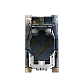
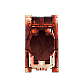
colored sprites, fixed explosions

Changed region(s): [[0.2857, 0.1667, 0.7143, 0.8571]]

diff --git a/src/EvilCraft/Tank.java b/src/EvilCraft/Tank.java
@@ -31,9 +31,15 @@ public class Tank extends ArmyUnit {
     String body = "resources/images/team_red/tank/body.png";
     String gun = "resources/images/team_red/tank/gun.png";
     private int firespeed = 30;
-
+    private final static int imgW = 84;
+    private final static int imgH = 84; //width and height for drawing
+    private final static int colW = 34;
+    private final static int colH = 58; //width and height for collision
+    //Sprite superclass has variables w and h, these correspond to imgW and imgH and can be used as such
+    //getW and H return colW and H, because that's the only one other objects should care about unless they're a canvas
+    
     public Tank(Team team, int x, int y, int w, int h) {
-        super(team, x, y, 84, 84, 300, 0, 2);
+        super(team, x, y, imgW, imgH, 300, 0, 2);
         int k = 0;
         GameEngine ge = GameEngine.getInstance();
         body = this.team==ge.getPlayerTeam()? "resources/images/team_red/tank/body.png": "resources/images/team_yellow/tank/body.png";
@@ -62,18 +68,27 @@ public class Tank extends ArmyUnit {
         if (this.idx_explode == -1) {
         } else {
             if (this.pic != null) {
-                mainview.drawImg(this.pic, this.getX(), this.getY(), this.getW(), this.getH(), 0);
+                mainview.drawImg(this.pic, this.getX(), this.getY(), imgW, imgH, 0); 
             }
         }
-        mainview.drawImg(body, this.getX() - this.getW() / 2, this.getY() - this.getH() / 2, this.getW(), this.getH(), body_degree);
-        mainview.drawImg(gun, this.getX() - this.getW() / 2, this.getY() - this.getH() / 2, this.getW(), this.getH(), gun_degree);
+        mainview.drawImg(body, this.getX() - imgW/ 2, this.getY() - imgH/ 2, imgW, imgH, body_degree);
+        mainview.drawImg(gun, this.getX() - imgW/ 2, this.getY() - imgH / 2, imgW, imgH, gun_degree);
     }
 
+    @Override
+    public int getH(){ //changed for collision detection
+        return colH;
+    }
+    
+    @Override
+    public int getW(){ //changed for collision detection
+        return colW;
+    }
+    
     @Override
     public void drawOnMiniMap(ICanvasDevice minimap) {
         int mw = GameEngine.getInstance().map.getNumRows()*100;
         int vw = minimap.getWidth();
-        String color = this.team.name.indexOf("Human")>=0? "#FF0000": "#0000FF";
         minimap.drawRectangle(x*vw/mw, y*vw/mw, w*vw/mw, h*vw/mw, color);
     }
 
@@ -187,7 +202,7 @@ public class Tank extends ArmyUnit {
         firespeed--;
         if (firespeed == 0){
             firespeed = 30;
-            Shell shell = new Shell(this.team, this.getX() + this.getW() / 2, this.getY() + this.getH() / 2, 10, 10, 100000, pt.x, pt.y);
+            Shell shell = new Shell(this.team, this.getX() + imgW / 2, this.getY() + imgH / 2, 10, 10, 100000, pt.x, pt.y);
             GameEngine ge = GameEngine.getInstance();
             ge.addSprite(shell);
         }

diff --git a/src/EvilCraft/Sprite.java b/src/EvilCraft/Sprite.java
@@ -35,15 +35,26 @@ public abstract class Sprite {
     private int altitude, blocking_score;
     private int lifepoints;
     private String id;
-    protected String pic = null;
+    protected String pic;
     
     //default explosion
     protected static String [] arrExplosion= new String [] {
-        "resources/images/common/explosion/exp1.png",
-         "resources/images/common/explosion/exp2.png",
-          "resources/images/common/explosion/exp3.png",
-           "resources/images/common/explosion/exp4.png",
-            "resources/images/common/explosion/exp5.png",
+        "resources/images/common/explosions/0.png",
+        "resources/images/common/explosions/1.png",
+        "resources/images/common/explosions/2.png",
+        "resources/images/common/explosions/3.png",
+        "resources/images/common/explosions/4.png",
+        "resources/images/common/explosions/5.png",
+        "resources/images/common/explosions/6.png",
+        "resources/images/common/explosions/7.png",
+        "resources/images/common/explosions/8.png",
+        "resources/images/common/explosions/9.png",
+        "resources/images/common/explosions/10.png",
+        "resources/images/common/explosions/11.png",
+        "resources/images/common/explosions/12.png",
+        "resources/images/common/explosions/13.png",
+        "resources/images/common/explosions/14.png",
+        "resources/images/common/explosions/15.png"
     };
     
     //------- OPERATIONS -------------
@@ -86,7 +97,7 @@ public abstract class Sprite {
         return this.bDead;
     }
     
-    final protected void setPos(int x, int y){
+    protected void setPos(int x, int y){
         this.x = x;
         this.y = y;
     }

diff --git a/src/EvilCraft/ArmyUnit.java b/src/EvilCraft/ArmyUnit.java
@@ -30,6 +30,7 @@ public abstract class ArmyUnit extends Sprite {
     protected SpriteInfo attackGoal = null;
     protected Point navigationGoal = null;
     private int coolTicksNeeded = 0;
+    String color = this.team == GameEngine.getInstance().getPlayerTeam() ? "#FF0000" : "#FFFF00";
 
     public ArmyUnit(Team team, int x, int y, int w, int h, int lifepoints, int altitude, int block_score) {
         super(team, x, y, w, h, lifepoints, altitude, block_score);
@@ -171,5 +172,31 @@ public abstract class ArmyUnit extends Sprite {
         }
         this.explode_ifenabled();
     }
-
+    
+    @Override
+    protected void setPos(int x, int y){
+        if (spaceClear(x,y))
+            super.setPos(x,y);
+    }
+    
+    protected boolean spaceClear(int newx, int newy){ //collision detection
+        boolean allClear = true;
+        Team enemy;
+        if (this.team == GameEngine.getInstance().getAITeam())
+            enemy = GameEngine.getInstance().getPlayerTeam();
+        else
+            enemy = GameEngine.getInstance().getAITeam();
+        ArrayList<Sprite> enemySprites = enemy.getSprites();
+        SpriteInfo sprInfo;
+        for (Sprite spr: enemySprites){
+            SpriteInfo.TYPE typeOf = spr.getSpriteInfo().type;
+            if (typeOf == SpriteInfo.TYPE.INFANTRY || typeOf == SpriteInfo.TYPE.TANK || typeOf == SpriteInfo.TYPE.PLANE){
+                if (GameEngine.isCollide(newx,newy,getW(),getH(),spr.getX(),spr.getY(),spr.getW(),spr.getH())){
+                    allClear = false; //space not clear if collision detected
+                    break;
+                }
+            }
+        }
+        return allClear;
+    }
 }

diff --git a/src/EvilCraft/GameEngine.java b/src/EvilCraft/GameEngine.java
@@ -307,7 +307,7 @@ public class GameEngine implements IGameEngine{
          return this.arrTeams.get(1);
     }
     
-    protected boolean isCollide(int x1, int y1, int w1, int h1, int x2, int y2, int w2, int h2){
+    protected static boolean isCollide(int x1, int y1, int w1, int h1, int x2, int y2, int w2, int h2){
        //calculate the intersection
        int xmax = Integer.max(x1, x2);
        int xmin = Integer.min(x1+w1-1, x2+w2-1);

diff --git a/src/EvilCraft/Projectile.java b/src/EvilCraft/Projectile.java
@@ -91,9 +91,10 @@ public abstract class Projectile extends Sprite{
         }
     }
     
+    @Override
     public void drawOnMainView(ICanvasDevice canvas){
-        if(this.pic==null) return;
-        canvas.drawImg(this.pic, this.getX(), this.getY(), this.getW(), this.getH(), 0);
+        if(this.pic!=null)
+            canvas.drawImg(this.pic, this.getX(), this.getY(), this.getW(), this.getH(), 0);
     }
     
     /**

diff --git a/src/EvilCraft/Airplane.java b/src/EvilCraft/Airplane.java
@@ -49,7 +49,6 @@ public class Airplane extends ArmyUnit {
     public void drawOnMiniMap(ICanvasDevice minimap) {
         int mw = GameEngine.getInstance().map.getNumRows() * 100;
         int vw = minimap.getWidth();
-        String color = this.team.name.indexOf("Human") >= 0 ? "#FF0000" : "#0000FF";
         minimap.drawRectangle(x * vw / mw, y * vw / mw, w * vw / mw, h * vw / mw, color); 
     }
 

diff --git a/src/EvilCraft/Infantry.java b/src/EvilCraft/Infantry.java
@@ -59,7 +59,6 @@ public class Infantry extends ArmyUnit {
     public void drawOnMiniMap(ICanvasDevice minimap) {
         int mw = GameEngine.getInstance().map.getNumRows()*100;
         int vw = minimap.getWidth();
-        String color = this.team.name.indexOf("Human")>=0? "#FF0000": "#0000FF";
         minimap.drawRectangle(x*vw/mw, y*vw/mw, w*vw/mw, h*vw/mw, color);
     }    
 

diff --git a/src/EvilCraft/Map.java b/src/EvilCraft/Map.java
@@ -36,7 +36,7 @@ public class Map {
      */
     public Map(String mapPath, ICanvasDevice canvas){
         String sall = canvas.readFile(mapPath);
-        String [] sLines = sall.split("\n");
+        String [] sLines = sall.split("\r\n");
         this.tiles = new String[sLines.length][];
         this.map = new int [sLines.length][];
         for(int i=0; i<sLines.length; i++){
